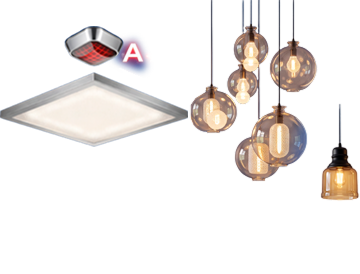
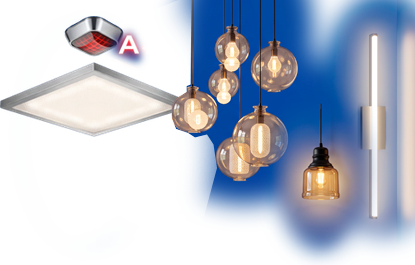
Карточки услуг по макету: тени, места иллюстраций, адаптив
- тень под широкими и малыми карточками (картинки из макета), десктоп и мобилка
- иллюстрации малых карточек на своих местах из Figma, широкие — по ширине от правого нижнего угла;
  на узком десктопе и мобилке ужимаются и не выходят за края
- ЭО пересобрана из слоёв макета (с настенным светильником), мобильные картинки малых обрезаны по содержимому
- фон карточки и межстрочный интервал заголовка широкой — по макету, подпись малой на мобилке 12/16

diff --git a/source/sass/components/services.scss b/source/sass/components/services.scss
@@ -1,3 +1,5 @@
+@use "sass:math";
+
 // Страница «Услуги»: заголовок, чипы-табы и разделы карточек услуг (показывается один раздел или «Все»),
 // ниже — «Нужна консультация». Координаты декора из макета 1920: left = calc(50% + (x − 960)px),
 // top — от верха main (188 в макете); на мобильной 390 — от центра 195, верх main — 84.
@@ -537,6 +539,43 @@
 // ---------------------------------
 // Карточка услуги
 // ---------------------------------
+
+// иллюстрации широких карточек (666×329): ширина картинки, прижата вправо и к низу
+$service-tile-wide-art: (
+	es: 430,
+	en: 333,
+	vl: 406,
+	kl: 333,
+	bktp: 299,
+	ktpn: 333,
+	aps: 299,
+	soue: 282,
+	asutp: 327,
+	asud: 666,
+	repair1: 340,
+	repair2: 313,
+);
+
+// иллюстрации малых карточек (435×329): x, y, ширина картинки — по слоям макета
+$service-tile-small-art: (
+	eg: (108, 0, 231),
+	em: (0, 0, 435),
+	eo: (0, 0, 435),
+	mast: (0, 0, 435),
+	oru: (0, 0, 435),
+	aupt: (68, 23, 296),
+	spdv: (92, 8, 269),
+	ss: (52, 8, 327),
+	sks: (76, 20, 277),
+	skud: (89, 0, 258),
+	ak: (9, 0, 426),
+	smart: (54, 8, 327),
+	design: (0, 0, 435),
+	check: (66, 0, 306),
+	agree: (81, 24, 274),
+	permit: (58, 19, 319),
+);
+
 .service-tile {
 	position: relative;
 	isolation: isolate;
@@ -544,17 +583,34 @@
 	height: 32.9rem;
 	color: var(--color-white);
 	text-decoration: none;
-	overflow: hidden;
-	background: linear-gradient(180deg, #0049a1 0%, #004f9e 50%, #003c96 100%);
 
-	//todo тень под карточкой drop-shadow
+	// тень под карточкой — картинка из макета (выходит на 54 ниже широкой и на 48 ниже малой)
+	&::before {
+		content: '';
+		position: absolute;
+		top: 6.9rem;
+		left: 0;
+		z-index: -2;
+		width: 100%;
+		height: 31.4rem;
+		background: url("../assets/img/services-shadow-wide.webp") no-repeat 0 0 / 100% 100%;
+		pointer-events: none;
+	}
 
+	&--small::before {
+		top: 8.4rem;
+		height: 29.3rem;
+		background-image: url("../assets/img/services-shadow.webp");
+	}
 
 	&__bg {
 		position: absolute;
 		inset: 0;
 		z-index: -1;
 		overflow: hidden;
+		background:
+			linear-gradient(90deg, rgba(0, 92, 186, 0.1) 0%, rgba(0, 92, 186, 0) 45%),
+			linear-gradient(180deg, #0044a0 0%, #0048a7 30%, #0044a4 75%, #003f9c 100%);
 		pointer-events: none;
 	}
 
@@ -565,28 +621,64 @@
 		pointer-events: none;
 	}
 
+	// картинка не выходит за карточку: обрезка по её краям
 	&__pic {
 		position: absolute;
-		top: 0;
-		right: 0;
-		bottom: 0;
+		inset: 0;
 		z-index: 0;
-		height: 100%;
+		display: block;
 		overflow: hidden;
 		pointer-events: none;
-		display: block;
 	}
 
+	// по умолчанию (малая с картинкой не из карты) — вписана в верх карточки над названием
 	&__img {
+		position: absolute;
+		top: 0;
+		left: 0;
 		display: block;
-		width: auto;
-		height: 100%;
+		width: 100%;
+		height: 74%;
 		max-width: none;
-		object-fit: cover;
-		object-position: right center;
+		object-fit: contain;
+		object-position: right top;
 		pointer-events: none;
 		transition: transform 0.6s ease;
-		transform-origin: right center;
+		transform-origin: center;
+	}
+
+	// широкая: ширина по макету в долях карточки, прижата вправо и к низу; на узкой ужимается, не вылезая
+	&--wide &__img {
+		top: auto;
+		right: 0;
+		bottom: 0;
+		left: auto;
+		height: auto;
+		max-height: 100%;
+		object-position: right bottom;
+		transform-origin: right bottom;
+	}
+
+	@each $name, $w in $service-tile-wide-art {
+		&--wide#{&}--art-#{$name} &__img {
+			width: math.div($w, 666) * 100%;
+		}
+	}
+
+	// малая: место и ширина по макету в долях карточки
+	@each $name, $art in $service-tile-small-art {
+		$x: nth($art, 1);
+		$y: nth($art, 2);
+		$w: nth($art, 3);
+
+		&--small#{&}--art-#{$name} &__img {
+			top: math.div($y, 329) * 100%;
+			left: math.div($x, 435) * 100%;
+			width: math.div($w, 435) * 100%;
+			height: auto;
+			max-height: 100% - math.div($y, 329) * 100%;
+			object-position: center top;
+		}
 	}
 
 	// широкая: название и описание сверху слева, стрелка под ними
@@ -609,7 +701,7 @@
 		text-overflow: ellipsis;
 		min-height: 2.8rem;
 		font-size: 1.8rem;
-		line-height: 2.4rem;
+		line-height: 2.8rem;
 		font-weight: 600;
 	}
 
@@ -631,6 +723,7 @@
 	&--small &__title {
 		min-height: 0;
 		-webkit-line-clamp: 3;
+		line-height: 2.4rem;
 
 		@include vp-narrow {
 			font-size: 1.4rem;
@@ -690,17 +783,11 @@
 		outline-offset: 0.4rem;
 	}
 
-	// мобильная: широкая 328×242, малая 157×217 — своя картинка, у малой нет стрелки
+	// мобильная: широкая 328×242, малая 157×217 — у малой своя обрезанная картинка (-m) и нет стрелки
 	@include vp-mobile {
 		height: 24.2rem;
 
 		&::before {
-			top: 5.2rem;
-			height: 19.4rem;
-			background-image: url("../assets/img/services-shadow-m.webp");
-		}
-
-		&--wide::before {
 			top: 5.5rem;
 			height: 23.1rem;
 			background-image: url("../assets/img/services-shadow-wide-m.webp");
@@ -710,18 +797,22 @@
 			height: 21.7rem;
 		}
 
-		&__pic {
-			top: 0;
-			right: 0;
-			bottom: 0;
-			height: 100%;
+		&--small::before {
+			top: 5.2rem;
+			height: 19.4rem;
+			background-image: url("../assets/img/services-shadow-m.webp");
 		}
 
-		&__img {
-			width: auto;
-			height: 100%;
-			max-width: none;
-			object-position: right center;
+		// малая: картинка вписана в область 157×127 от 8 сверху, по центру
+		// [class*] — перебить места из карты
+		&--small[class*="--art-"] &__img {
+			top: 0.8rem;
+			left: 0;
+			width: 100%;
+			height: 12.7rem;
+			max-height: none;
+			object-position: center;
+			transform-origin: center;
 		}
 
 		&__body {
@@ -750,16 +841,16 @@
 
 		&--small &__body {
 			top: auto;
-			bottom: 1.5rem;
-			left: 1.2rem;
-			right: 1.2rem;
+			bottom: 2rem;
+			left: 1.5rem;
+			right: 1rem;
 			width: auto;
 			max-width: none;
 		}
 
 		&--small &__title {
-			font-size: 1.15rem;
-			line-height: 1.45rem;
+			font-size: 1.2rem;
+			line-height: 1.6rem;
 			-webkit-line-clamp: 3;
 			word-break: break-word;
 		}

diff --git a/source/html/components/service-tile.html b/source/html/components/service-tile.html
@@ -1,7 +1,8 @@
 <!-- Карточка услуги в каталоге «Услуги»: синяя плашка (фон на CSS + HTML + SVG),
      иллюстрация (отдельная прозрачная картинка PNG/WebP), название, описание (только у широкой) и стрелка. Вся карточка — ссылка.
-     Параметры: size (wide | small), img (имя картинки: services-@@img.webp и -m.webp), title, text, href -->
-<a class="service-tile service-tile--@@size" href="@@href">
+     Параметры: size (wide | small), img (имя картинки: services-@@img.webp и -m.webp), title, text, href.
+     Место картинки в малой карточке — по имени в карте $service-tile-small-art (sass/components/services.scss) -->
+<a class="service-tile service-tile--@@size service-tile--art-@@img" href="@@href">
   <span class="service-tile__bg" aria-hidden="true">
     <svg class="service-tile__decor" @@if (context.size==='wide' ) {viewBox="0 0 666 329" }@@if (context.size !=='wide'
       ) {viewBox="0 0 435 329" } fill="none" xmlns="http://www.w3.org/2000/svg" preserveAspectRatio="none">
